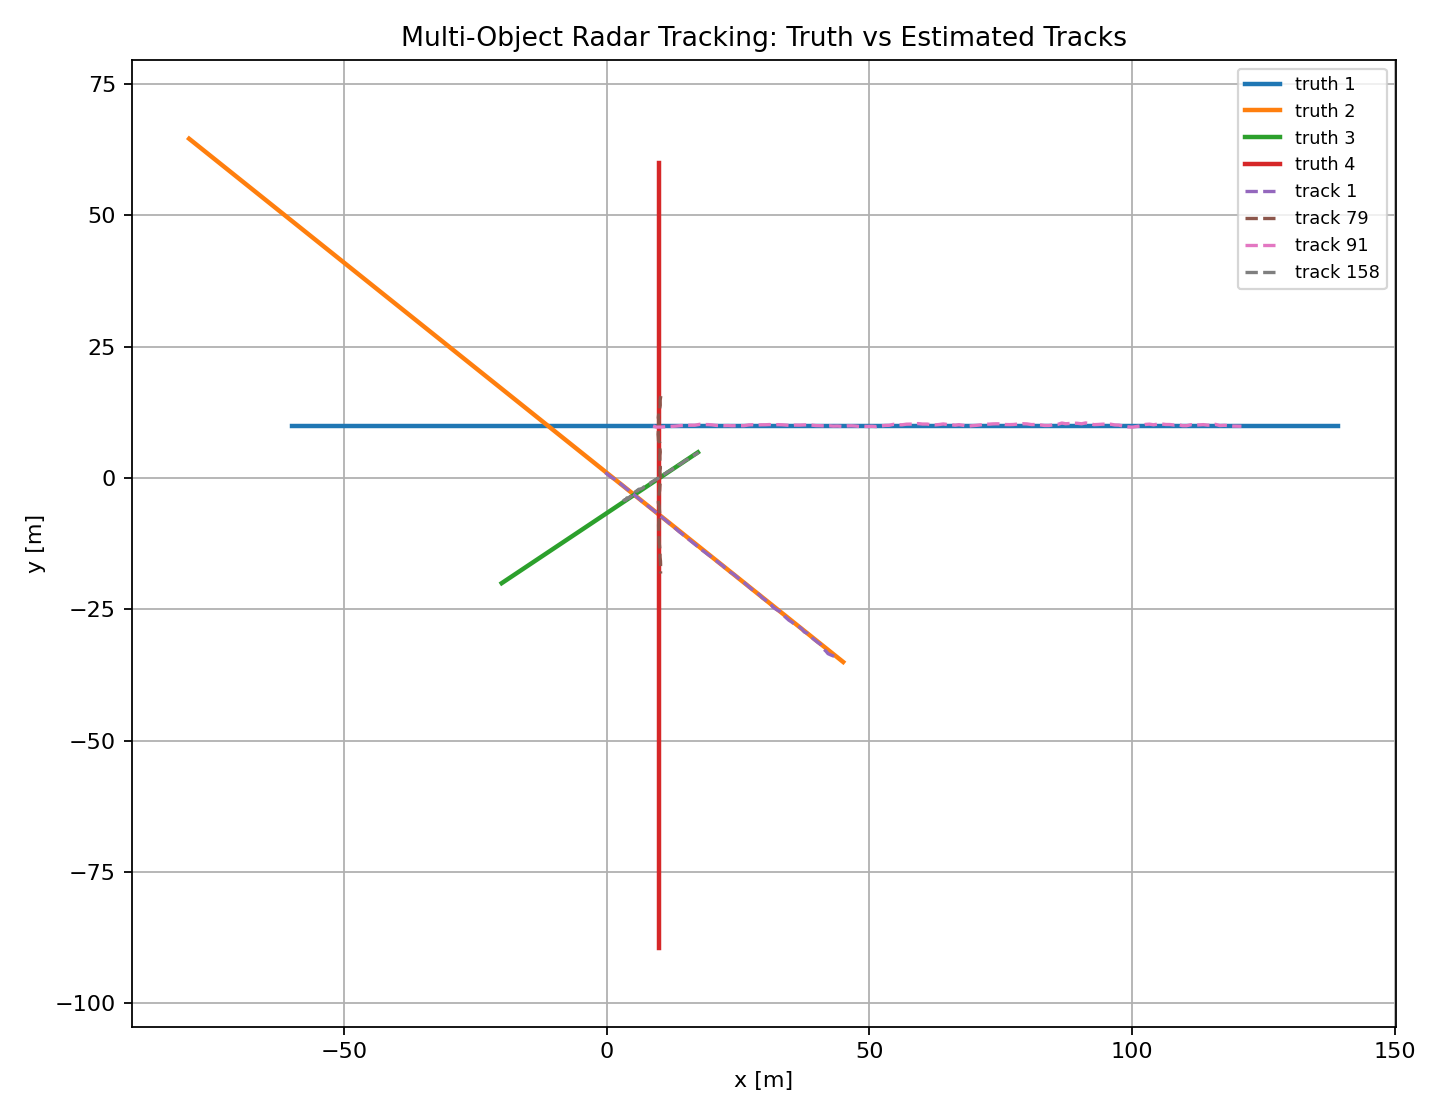
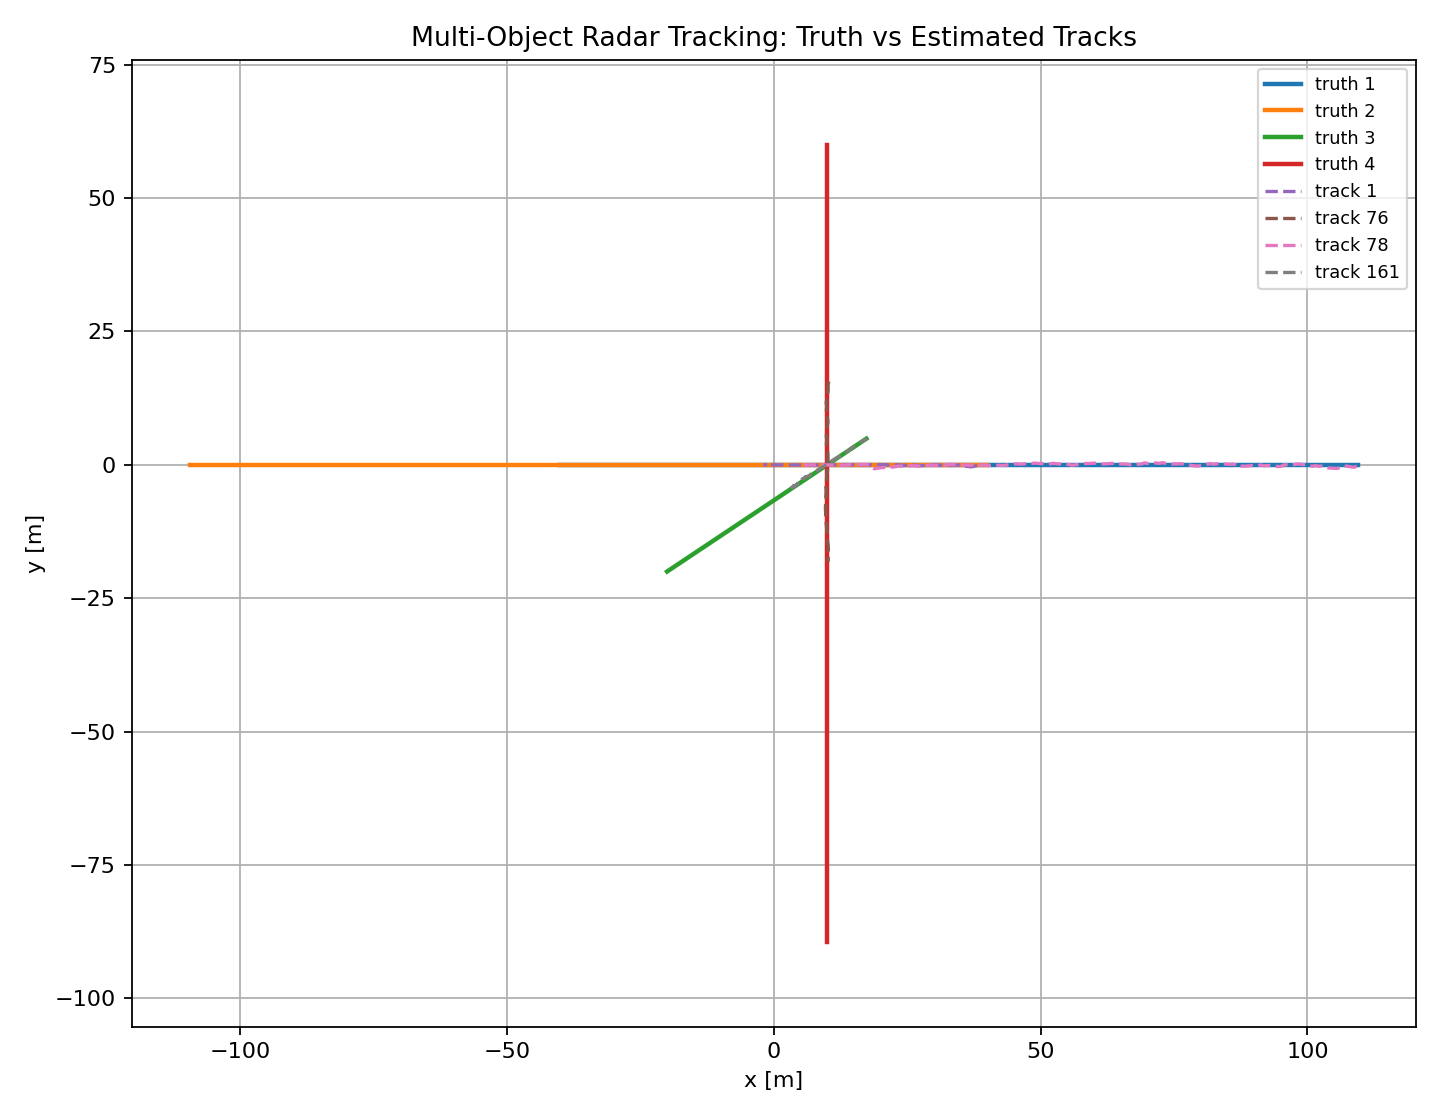
Phase 5A: JPDA validation gates and association probabilities

diff --git a/src/mot/run_demo.py b/src/mot/run_demo.py
@@ -23,7 +23,8 @@ def main():
     tracker = MultiObjectTracker(
         dt=dt,
         process_noise_std=0.8,
-        gate_threshold=5.99,
+        #gate_threshold=5.99,
+        gate_threshold=30.0,
         confirm_hits=5,
         delete_misses=3,
     )
@@ -37,6 +38,15 @@ def main():
 
         detections = radar.measure(objects)
         tracks = tracker.step(detections, step)
+        for track_idx, weights in getattr(tracker, "jpda_weights", {}).items():
+            if len(weights) > 1:
+                print(f"\nAmbiguous JPDA gate at step {step}, track index {track_idx}")
+
+                for w in weights:
+                    print(
+                        f"  Detection {w['det_idx']} "
+                        f"Probability={w['probability']:.3f}"
+                    )
 
         for trk in tracks:
             if trk.state == TrackState.CONFIRMED:
@@ -69,21 +79,21 @@ def main():
     #     else:
     #         print(f"Truth {truth_id}: no matched track")
 
-    manual_matches = {
-        1: 91,
-        2: 1,
-        3: 158,
-        4: 79,
-    }
+    # manual_matches = {
+    #     1: 91,
+    #     2: 1,
+    #     3: 158,
+    #     4: 79,
+    # }
 
-    print("\nTime-aligned manual RMSE summary:")
+    # print("\nTime-aligned manual RMSE summary:")
 
-    for truth_id, track_id in manual_matches.items():
-        rmse = compute_rmse_time_aligned(
-            truth_history[truth_id],
-            track_history[track_id]
-        )
-        print(f"Truth {truth_id} matched to Track {track_id}: RMSE = {rmse:.2f} m")
+    # for truth_id, track_id in manual_matches.items():
+    #     rmse = compute_rmse_time_aligned(
+    #         truth_history[truth_id],
+    #         track_history[track_id]
+    #     )
+    #     print(f"Truth {truth_id} matched to Track {track_id}: RMSE = {rmse:.2f} m")
 
 
     print("\nConfirmed track summary:")
@@ -103,6 +113,19 @@ def main():
     print(f"Expected true objects: {expected_true_tracks}")
     print(f"Confirmed tracks: {num_confirmed_tracks}")
     print(f"False confirmed tracks: {false_confirmed_tracks}")
+
+    # print("\nJPDA Validation Sets:")
+
+    # for track_idx, dets in tracker.jpda_weights.items():
+
+    #     print(f"\nTrack {track_idx}")
+
+    #     for det in dets:
+
+    #         print(
+    #             f"Detection {det['det_idx']} "
+    #             f"Probability={det['probability']:.3f}"
+    #         )
 
 if __name__ == "__main__":
     main()

diff --git a/src/mot/tracker.py b/src/mot/tracker.py
@@ -49,6 +49,8 @@ class MultiObjectTracker:
         self.tracks: list[Track] = []
         self.next_track_id = 1
         self.confirmed_track_log = {}
+        self.validation_sets = {}
+        self.jpda_weights = {}
 
     def step(self, detections: list[RadarDetection], current_step: int) -> list[Track]:
         # 1. Predict all tracks
@@ -98,6 +100,9 @@ class MultiObjectTracker:
         return self.tracks
 
     def _associate(self, det_positions: list[np.ndarray]):
+
+        self.validation_sets = {}
+        self.jpda_weights = {}
         active_indices = [i for i, t in enumerate(self.tracks) if t.state != TrackState.DELETED]
 
         if not active_indices:
@@ -114,8 +119,19 @@ class MultiObjectTracker:
             trk = self.tracks[track_idx]
             for col, z in enumerate(det_positions):
                 d2 = self.kf.innovation_distance(trk.x, trk.P, z) # Gating
+                if not hasattr(self, "validation_sets"):
+                    self.validation_sets = {}
+
+                self.validation_sets.setdefault(track_idx, [])
+
                 if d2 <= self.gate_threshold:
                     cost[row, col] = d2
+                    self.validation_sets[track_idx].append(
+                        {
+                            "det_idx": col,
+                            "distance": d2,
+                        }
+                    )
 
         rows, cols = linear_sum_assignment(cost) #Hungarian algorithm /Assignment
 
@@ -133,7 +149,38 @@ class MultiObjectTracker:
         unmatched_tracks = [i for i in active_indices if i not in matched_track_indices]
         unmatched_dets = [j for j in range(len(det_positions)) if j not in matched_det_indices]
 
+        
+        # JPDA probability calculation
+        from .jpda import association_probabilities
+
+        self.jpda_weights = {}
+
+        for track_idx, detections in self.validation_sets.items():
+
+            distances = [
+                d["distance"]
+                for d in detections
+            ]
+
+            probs = association_probabilities(
+                distances
+            )
+
+            self.jpda_weights[track_idx] = []
+
+            for det, prob in zip(detections, probs):
+
+                self.jpda_weights[track_idx].append(
+                    {
+                        "det_idx": det["det_idx"],
+                        "probability": prob,
+                    }
+                )
+
         return matches, unmatched_tracks, unmatched_dets
+
+        
+
 
     def _create_track(self, z: np.ndarray) -> None:
         x0 = np.array([z[0], z[1], 0.0, 0.0], dtype=float)

diff --git a/src/mot/jpda.py b/src/mot/jpda.py
@@ -1,0 +1,19 @@
+import numpy as np
+
+
+def association_probabilities(distances):
+    """
+    Convert Mahalanobis distances into
+    normalized association probabilities.
+
+    Lower distance = higher probability.
+    """
+
+    if len(distances) == 0:
+        return []
+
+    likelihoods = np.exp(-0.5 * np.array(distances))
+
+    probabilities = likelihoods / np.sum(likelihoods)
+
+    return probabilities.tolist()

diff --git a/src/mot/scenario.py b/src/mot/scenario.py
@@ -10,8 +10,10 @@ def create_intersection_scenario() -> list[ObjectState]:
     """
     #ground truth
     return [
-        ObjectState(x=-60.0, y=10.0, vx=8.0, vy=0.0, object_id=1, label="car"),
-        ObjectState(x=45.0, y=-35.0, vx=-5.0, vy=4.0, object_id=2, label="car"),
+        # ObjectState(x=-60.0, y=10.0, vx=8.0, vy=0.0, object_id=1, label="car"),
+        # ObjectState(x=45.0, y=-35.0, vx=-5.0, vy=4.0, object_id=2, label="car"),
+        ObjectState(x=-40.0, y=0.0, vx=6.0, vy=0.0, object_id=1,  label="car"),
+        ObjectState(x=40.0, y=0.0, vx=-6.0, vy=0.0, object_id=2, label="car"),
         ObjectState(x=-20.0, y=-20.0, vx=1.5, vy=1.0, object_id=3, label="bicycle"),
         ObjectState(x=10.0, y=60.0, vx=0.0, vy=-6.0, object_id=4, label="truck"),
     ]

diff --git a/README.md b/README.md
@@ -162,7 +162,51 @@ Confirmed Object Tracks
 </p>
 
 --- 
+## JPDA Validation and Ambiguous Association Analysis
 
+To investigate limitations of Global Nearest Neighbor (GNN) association, the tracker was extended with JPDA-style validation gates and probabilistic association analysis.
+
+For each predicted track:
+
+1. Mahalanobis validation gates are computed
+2. All detections inside the gate are retained
+3. Association likelihoods are computed from Mahalanobis distances
+4. Normalized association probabilities are generated
+
+This allows the tracker to identify ambiguous target-detection assignments, particularly during target crossing and clutter-rich scenarios.
+
+Example output:
+
+```text
+Ambiguous JPDA gate at step 51, track index 0
+
+Detection 0 Probability = 0.879
+Detection 1 Probability = 0.121
+
+Ambiguous JPDA gate at step 80, track index 1
+
+Detection 0 Probability = 0.957
+Detection 2 Probability = 0.043
+```
+These results demonstrate that multiple measurements can simultaneously satisfy a track's validation gate and motivate probabilistic association methods such as Joint Probabilistic Data Association (JPDA).
+
+Current implementation:
+
+- Validation gate generation
+- Association likelihood computation
+- Association probability normalization
+
+Planned next step:
+
+- Full JPDA weighted Kalman update
+
+### Example JPDA Validation Output
+
+<p align="center">
+<img src="outputs/jpda_validation.png" width="450"/>
+</p>
+
+---
 
 ## Run
 
@@ -172,12 +216,11 @@ python -m src.mot.run_demo
 
 ## Planned Extensions
 
-- JPDA data association
-- Bernoulli existence probability
+- Complete JPDA weighted Kalman update
+- Joint association hypothesis management
+- Bernoulli / Random Finite Set tracking
 - Radar-camera fusion
-- Extended Object Tracking
-- C implementation of the tracking core
-- Real radar log replay support/interface
+- Embedded C implementation
 
 ---
 